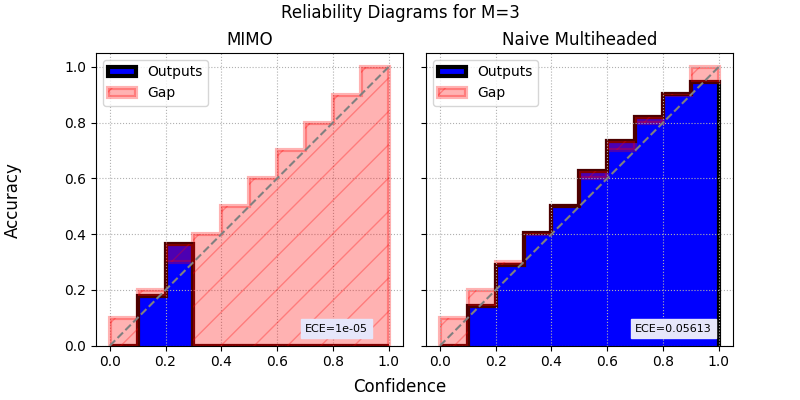
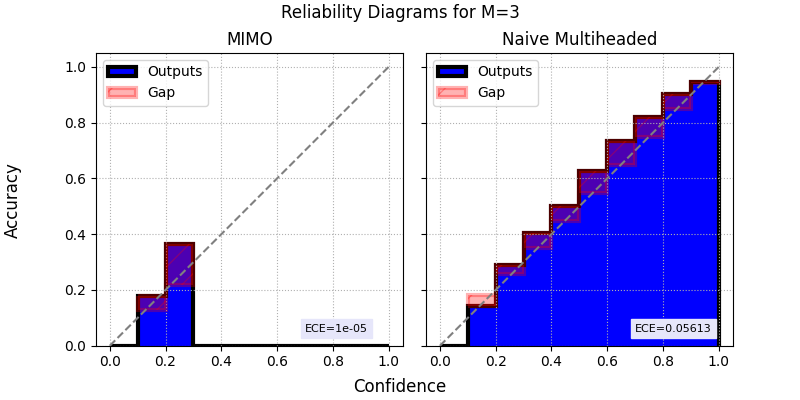
toydataset generation and regression reliability plots

diff --git a/src/visualization/visualize_mimo.py b/src/visualization/visualize_mimo.py
@@ -3,6 +3,7 @@ from matplotlib.patches import StepPatch
 import torch
 import numpy as np
 import os
+import pandas as pd
 
 def plot_loss(losses, val_losses, model_name="MIMO"):
 
@@ -67,7 +68,7 @@ def plot_regression(x_test, y_test, mimo_pred_matrix, mimo_stds, Ms):
 
     plt.show()
 
-def reliability_plot(correct_predictions, confidence, naive_correct_predictions, naive_confidence, model_name, naive_model_name, M):
+def reliability_plot_classification(correct_predictions, confidence, naive_correct_predictions, naive_confidence, model_name, naive_model_name, M):
         #Code for generating reliability diagram:
     fig, ax = plt.subplots(1, 2, sharey=True, figsize=(8,4))
 
@@ -99,9 +100,7 @@ def reliability_plot(correct_predictions, confidence, naive_correct_predictions,
             
             naive_ECE_values[i] = len(loc[0])/n_samples*np.abs(naive_acc_step_height[i]-naive_conf_step_height[i])
         else:
-            naive_acc_step_height[i] = 0.0
-            
-            
+            naive_acc_step_height[i] = 0.0   
 
     naive_ECE = np.sum(naive_ECE_values)
     
@@ -112,7 +111,7 @@ def reliability_plot(correct_predictions, confidence, naive_correct_predictions,
     
     ax[0].grid(linestyle='dotted', zorder=0)
     ax[0].stairs(acc_step_height, bins_range, fill = True, color='b', edgecolor='black', linewidth=3.0, label='Outputs', zorder=1)
-    ax[0].stairs(bins_range[1:], bins_range, baseline = acc_step_height, hatch="/", fill = True, alpha=0.3, color='r', edgecolor='r', linewidth=3.0, label='Gap', zorder=2)
+    ax[0].stairs(conf_step_height, bins_range, baseline = acc_step_height, hatch="/", fill = True, alpha=0.3, color='r', edgecolor='r', linewidth=3.0, label='Gap', zorder=2)
     ax[0].plot(bins_range, bins_range, linestyle='--', color='gray', zorder=3)
     
     ax[0].set_aspect('equal', adjustable='box')
@@ -122,7 +121,7 @@ def reliability_plot(correct_predictions, confidence, naive_correct_predictions,
 
     ax[1].grid(linestyle='dotted')
     ax[1].stairs(naive_acc_step_height, bins_range, fill = True, color='b', edgecolor='black', linewidth=3.0, label='Outputs')
-    ax[1].stairs(bins_range[1:], bins_range, baseline = naive_acc_step_height, hatch="/", fill = True, alpha=0.3, color='r', edgecolor='r', linewidth=3.0, label='Gap')
+    ax[1].stairs(naive_conf_step_height, bins_range, baseline = naive_acc_step_height, hatch="/", fill = True, alpha=0.3, color='r', edgecolor='r', linewidth=3.0, label='Gap')
     ax[1].plot(bins_range, bins_range, linestyle='--', color='gray', )
     ax[1].text(0.7, 0.05, f'ECE={np.round(naive_ECE,5)}', backgroundcolor='lavender', alpha=1.0, fontsize=8.0)
     
@@ -133,6 +132,40 @@ def reliability_plot(correct_predictions, confidence, naive_correct_predictions,
     plt.savefig(f"reports/figures/{model_name}_{M}_confidence_plots.png")
     plt.show()
 
+def reliability_diagram_regression(predictions, targets, predicted_std, M, model_name):
+    fig, ax = plt.subplots(1,1, figsize=(6,6))
+    
+    predictions = predictions.flatten()
+    predicted_variance = (predicted_std**2).flatten()
+    # make bins from 
+    bins_range = np.linspace(0, np.max(predicted_variance), 11)
+    n_samples = len(predictions)
+
+    MSE_step_height = np.zeros(10)
+    Variance_step_height = np.zeros(10)
+
+    squared_error = np.power(predictions - targets, 2)
+
+    for i in range(10):
+        loc = np.where(np.logical_and(predicted_variance>=bins_range[i], predicted_variance<bins_range[i+1]))[0]
+        MSE_step_height[i] = np.mean(squared_error[loc])
+        Variance_step_height[i] = np.mean(predicted_variance[loc])
+
+    plt.grid(linestyle='dotted', zorder=0)
+    plt.stairs(MSE_step_height, bins_range, fill = True, color='b', edgecolor='black', linewidth=3.0, label='Outputs', zorder=1)
+    plt.stairs(bins_range[1:], bins_range, baseline = MSE_step_height, hatch="/", fill = True, alpha=0.3, color='r', edgecolor='r', linewidth=3.0, label='Gap', zorder=2)
+    plt.plot(bins_range, bins_range, linestyle='--', color='gray', zorder=3)
+    plt.legend()
+    plt.title(f"Regression reliability plot for {model_name} with M={M}")
+
+    plt.xlabel("Predicted variance")
+    plt.ylabel("Mean squared error") 
+
+    plt.savefig(f"reports/figures/{model_name}_{M}_reliability_diagram.png")   
+
+    plt.show()
+
+    
 def function_space_plots(model_name):
     checkpoint_list = torch.load(f'models/{model_name}.pt')
     checkpoint_list = torch.stack(checkpoint_list[:,:5,:]).flatten()
@@ -143,26 +176,45 @@ def function_space_plots(model_name):
 
 if __name__ == '__main__':
     #init params
-    model_name = "C_MIMO"
+    modes = ['regression','classification']
+    mode = modes[1]
+    model_names = ['MIMO','Naive', 'VarMIMO', 'C_MIMO', 'C_Naive']
+    model_name = model_names[3]
     naive_model_name = "C_Naive"
     base_load_path = 'reports/Logs/'
     load_path = os.path.join(base_load_path, model_name)
     naive_load_path = os.path.join(base_load_path, naive_model_name)
     Ms = [2,3,4]
+    # Ms = [3]
     N_test = 10000
-    M = Ms[1]
+    # M = Ms[1]
 
-    for M in Ms:
-        #load data
-        predictions = np.load(os.path.join(base_load_path,f'{model_name}/M{M}_predictions.npy')) 
-        confidences = np.load(os.path.join(base_load_path,f'{model_name}/M{M}_confidences.npy')) 
-        correct_predictions = np.load(os.path.join(base_load_path,f'{model_name}/M{M}_correct_predictions.npy')) 
+    if mode == 'regression':
+        test_df = pd.read_csv('data/toydata/test_data.csv')
+        targets = np.array(list(test_df['y']))
+        for M in Ms:
+            #load data
+            outputs = np.load("reports/Logs/VarMIMO/VarMIMO_3.npz")
+            
+            predictions = outputs['predictions']
+            
+            predicted_variance = outputs['predicted_variance']
+            
+            reliability_diagram_regression(predictions, targets, predicted_variance, model_name=model_name, M=M)
 
-        Naive_predictions = np.load(os.path.join(base_load_path,f'{naive_model_name}/Naive_M{M}_predictions.npy')) 
-        Naive_confidences = np.load(os.path.join(base_load_path,f'{naive_model_name}/Naive_M{M}_confidences.npy')) 
-        Naive_correct_predictions = np.load(os.path.join(base_load_path,f'{naive_model_name}/Naive_M{M}_correct_predictions.npy'))
+
+    elif mode == 'classification':
+        for M in Ms:
+            #load data
+            predictions = np.load(os.path.join(base_load_path,f'{model_name}/M{M}_predictions.npy')) 
+            confidences = np.load(os.path.join(base_load_path,f'{model_name}/M{M}_confidences.npy')) 
+            correct_predictions = np.load(os.path.join(base_load_path,f'{model_name}/M{M}_correct_predictions.npy')) 
+
+            Naive_predictions = np.load(os.path.join(base_load_path,f'{naive_model_name}/Naive_M{M}_predictions.npy')) 
+            Naive_confidences = np.load(os.path.join(base_load_path,f'{naive_model_name}/Naive_M{M}_confidences.npy')) 
+            Naive_correct_predictions = np.load(os.path.join(base_load_path,f'{naive_model_name}/Naive_M{M}_correct_predictions.npy'))
 
 
-        reliability_plot(correct_predictions=correct_predictions, confidence = confidences, naive_correct_predictions=Naive_correct_predictions, naive_confidence=Naive_confidences, model_name=model_name, naive_model_name=naive_model_name, M=M)
+            reliability_plot_classification(correct_predictions=correct_predictions, confidence = confidences, naive_correct_predictions=Naive_correct_predictions, naive_confidence=Naive_confidences, model_name=model_name, naive_model_name=naive_model_name, M=M)
 
-
+    

diff --git a/src/inference_mimo.py b/src/inference_mimo.py
@@ -3,9 +3,10 @@ import numpy as np
 from torch.utils.data import DataLoader
 from data.OneD_dataset import test_collate_fn, naive_collate_fn, generate_data, ToyDataset
 from data.CIFAR10 import C_Naive_test_collate_fn, C_Naive_train_collate_fn, C_test_collate_fn, C_train_collate_fn, load_cifar
-from visualization.visualize_mimo import reliability_plot, plot_regression
+from visualization.visualize_mimo import plot_regression
 import glob
 import os
+import pandas as pd
 from models.mimo import C_MIMONetwork, C_NaiveNetwork, MIMONetwork, NaiveNetwork
 
 
@@ -13,6 +14,7 @@ from models.mimo import C_MIMONetwork, C_NaiveNetwork, MIMONetwork, NaiveNetwork
 def inference(model, testloader):
     predictions = []
     pred_individual = []
+    
 
     for test_x, test_y in testloader:
         output, individual_outputs = model(test_x.float())
@@ -20,7 +22,7 @@ def inference(model, testloader):
         predictions.extend(list(output.detach().numpy()))
         pred_individual.extend(list(individual_outputs.detach().numpy()))
 
-    return np.array(predictions), np.array(pred_individual)
+    return np.array(predictions), np.array(pred_individual), 
 
 def var_inference(model, testloader):
     mu_list = []
@@ -186,12 +188,9 @@ if __name__ == '__main__':
     
     if mode == 'Regression':
         #prepare data
-        #set parameters for toy data
-        lower = -0.5
-        upper = 1.5
-        std = 0.02
+        df_test = pd.read_csv("data/toydata/test_data.csv")
         
-        x_test, y_test = generate_data(N_test, lower, upper, std)
+        x_test, y_test = np.array(list(df_test['x'])), np.array(list(df_test['y']))
         testdata = ToyDataset(x_test, y_test)
 
 
@@ -200,9 +199,12 @@ if __name__ == '__main__':
         else:
             if is_var:
                 mu, sigma, mus, sigmas = get_var_mimo_predictions(model_path=model_path, Ms = Ms, N_test=N_test, testdata=testdata)
+                np.savez(f'reports/Logs/{model_name}/VarMIMO_3', predictions=mu, predicted_variance=sigma)
+
                 plot_regression(x_test, y_test, mu, sigma, Ms)
             else:
                 predictions_matrix, pred_individual_list = get_mimo_predictions(model_path = model_path, Ms = Ms, N_test = N_test, testdata = testdata)
+
     
     elif mode == 'Classification':
         _, _, testdata = load_cifar("data/")
@@ -221,6 +223,6 @@ if __name__ == '__main__':
                 np.save(f'reports/Logs/{model_name}/M{Ms[i]}_predictions', predictions_matrix[i,:])
                 np.save(f'reports/Logs/{model_name}/M{Ms[i]}_confidences', confidences_matrix[i,:])
                 np.save(f'reports/Logs/{model_name}/M{Ms[i]}_correct_predictions', correct_preds_matrix[i,:])
-    print('hej')
+    # print('hej')
 
     

diff --git a/src/data/make_dataset.py b/src/data/make_dataset.py
@@ -1,30 +1,53 @@
 # -*- coding: utf-8 -*-
-import click
-import logging
-from pathlib import Path
-from dotenv import find_dotenv, load_dotenv
+import pandas as pd
+from data.OneD_dataset import generate_data
+from utils.utils import set_seed
+import os
 
 
-@click.command()
-@click.argument('input_filepath', type=click.Path(exists=True))
-@click.argument('output_filepath', type=click.Path())
-def main(input_filepath, output_filepath):
-    """ Runs data processing scripts to turn raw data from (../raw) into
-        cleaned data ready to be analyzed (saved in ../processed).
-    """
-    logger = logging.getLogger(__name__)
-    logger.info('making final data set from raw data')
+def make_toydata():
+    if os.path.exists("data/toydata"):
+        print('Toy dataset already exists')
+        pass
+    
+    else:
+        os.mkdir("data/toydata")
+        
+        set_seed(1871)
+
+        df_train = pd.DataFrame(columns=["x", "y"])
+        df_val = pd.DataFrame(columns=["x", "y"])
+        df_test = pd.DataFrame(columns=["x", "y", "line"])
+
+        # Generate train data
+        N_train = 2000
+        x, y = generate_data(N_train, lower=-0.25, upper=1, std=0.02)
+
+        # Generate validation data
+        N_val = 500
+        x_val, y_val = generate_data(N_val, lower=-0.25, upper=1, std=0.02)
+
+        # Generate test data
+        N_test = 500
+        x_test, y_test = generate_data(N_test, lower=-0.5, upper=1.5, std=0.02)
+
+        _, line = generate_data(N_test, lower=-0.5, upper=1.5, std=0.0)
+
+        df_train['x'] = x
+        df_train['y'] = y
+
+        df_val['x'] = x_val
+        df_val['y'] = y_val
+
+        df_test['x'] = x_test
+        df_test['y'] = y_test
+        df_test['line'] = line
+
+    
+
+        df_train.to_csv("data/toydata/train_data.csv", index=False)
+        df_val.to_csv("data/toydata/val_data.csv", index=False)
+        df_test.to_csv("data/toydata/test_data.csv", index=False)
+        print('Created Toydata successfully')
 
 
-if __name__ == '__main__':
-    log_fmt = '%(asctime)s - %(name)s - %(levelname)s - %(message)s'
-    logging.basicConfig(level=logging.INFO, format=log_fmt)
-
-    # not used in this stub but often useful for finding various files
-    project_dir = Path(__file__).resolve().parents[2]
-
-    # find .env automagically by walking up directories until it's found, then
-    # load up the .env entries as environment variables
-    load_dotenv(find_dotenv())
-
-    main()

diff --git a/src/train_mimo.py b/src/train_mimo.py
@@ -9,6 +9,9 @@ from models.mimo import MIMONetwork, NaiveNetwork, C_MIMONetwork, C_NaiveNetwork
 from utils.utils import seed_worker, set_seed, init_weights
 from data.OneD_dataset import generate_data, ToyDataset, train_collate_fn, test_collate_fn, naive_collate_fn
 from data.CIFAR10 import load_cifar, C_train_collate_fn, C_test_collate_fn, C_Naive_train_collate_fn, C_Naive_test_collate_fn
+from data.make_dataset import make_toydata
+import pandas as pd
+import os
 
 
 # useful functions 🤖
@@ -185,20 +188,20 @@ if __name__ == "__main__":
         batch_size = 32
         is_var = True
 
+        make_toydata()
 
         #load data
         if mode == "Regression":
-            lower = -0.25
-            upper = 1.0
-            std = 0.02
 
+            
             #train
-            N_train = 2000
-            x_train, y_train = generate_data(N_train, lower, upper, std)
+            df_train = pd.read_csv('data/toydata/train_data.csv')
+            df_val = pd.read_csv('data/toydata/val_data.csv')
+            
+            x_train, y_train = np.array(list(df_train['x'])), np.array(list(df_train['y']))
             traindata = ToyDataset(x_train, y_train)
-            #val
-            N_val = 500
-            x_val, y_val = generate_data(N_val, lower, upper, std)
+            
+            x_val, y_val = np.array(list(df_val['x'])), np.array(list(df_val['y']))
             valdata = ToyDataset(x_val, y_val)
             
 
